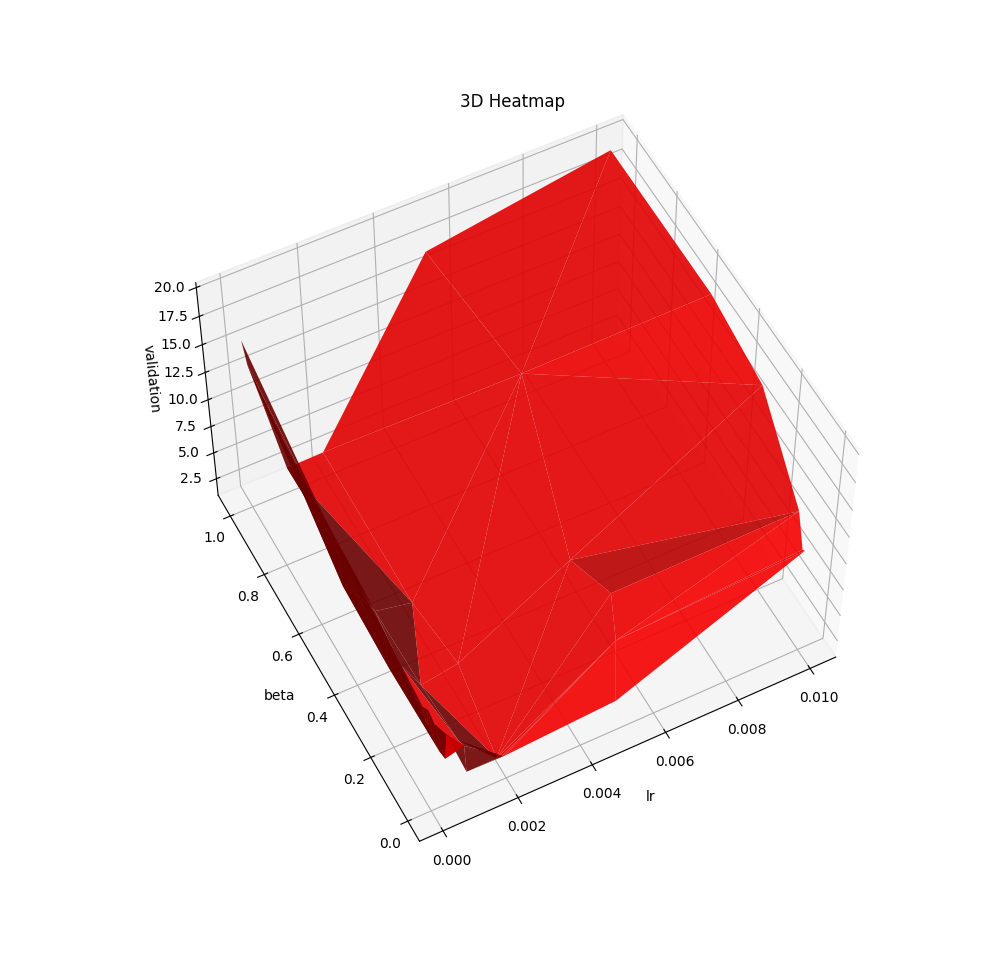
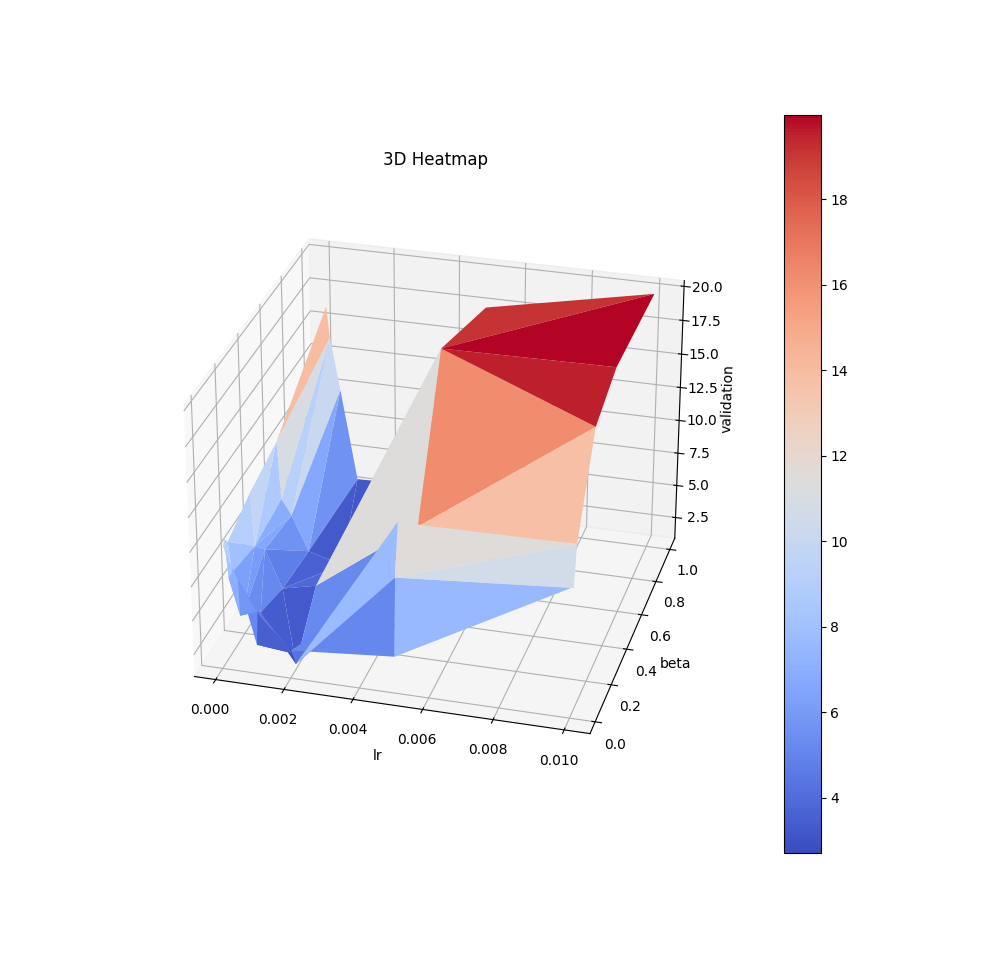
cleanup

diff --git a/moppy/sinus_test/plot_validation.py b/moppy/sinus_test/plot_validation.py
@@ -1,5 +1,4 @@
 import glob
-from typing import List
 import torch
 from matplotlib import pyplot as plt
 import numpy as np
@@ -8,7 +7,7 @@ from pylab import *
 class DataPoint():
     lr: float
     beta: float
-    validation: List[float]
+    validation: list[float]
 
     def __init__(self, lr, beta, validation_val) -> None:
         self.lr = lr
@@ -26,35 +25,34 @@ def extract_values_from_path(filepath):
         values[key] = float(value) if 'E' in value else int(value)
     return values
 
-# Example usage
-files = glob.glob("./output/seed_12/*/*/validation_loss.pth")
-points: List[DataPoint] = []
-for f in files:
-    extracted_values = extract_values_from_path(f) # Output: {'seed': 329, 'lr': 0.002, 'beta': 0.0002}
-    validation_value = torch.load(f)[-1]
+def load_values(folder: str, points: list[DataPoint]):
+    files = glob.glob(folder)
+    if not points:
+        # Create new point list and populate
+        points: list[DataPoint] = []
+        for f in files:
+            # Output: {'seed': 329, 'lr': 0.002, 'beta': 0.0002}
+            extracted_values = extract_values_from_path(f) 
+            validation_value = torch.load(f)[-1]
+            # validation_value = min(torch.load(f))
 
-    new_point = DataPoint(extracted_values['lr'], extracted_values['beta'], validation_value)
-    points.append(new_point)
+            new_point = DataPoint(extracted_values['lr'], extracted_values['beta'], validation_value)
+            points.append(new_point)
+    else:
+        # Add validation value to objects
+        for i, f in enumerate(files):
+            validation_value = torch.load(f)[-1]
+            # validation_value = min(torch.load(f))
+            points[i].validation.append(validation_value)
 
-files = glob.glob("./output/seed_220/*/*/validation_loss.pth")
-for i, f in enumerate(files):
-    validation_value = torch.load(f)[-1]
-    points[i].validation.append(validation_value)
+    return points
 
-files = glob.glob("./output/seed_329/*/*/validation_loss.pth")
-for i, f in enumerate(files):
-    validation_value = torch.load(f)[-1]
-    points[i].validation.append(validation_value)
 
-files = glob.glob("./output/seed_2304/*/*/validation_loss.pth")
-for i, f in enumerate(files):
-    validation_value = torch.load(f)[-1]
-    points[i].validation.append(validation_value)
+seeds = [12, 220, 329, 2304, 6064]
+points: list[DataPoint] = None
+for s in seeds:
+    points = load_values("./output/seed_" + str(s) + "/*/*/validation_loss.pth", points)
 
-files = glob.glob("./output/seed_6064/*/*/validation_loss.pth")
-for i, f in enumerate(files):
-    validation_value = torch.load(f)[-1]
-    points[i].validation.append(validation_value)
 
 # Extract data for plotting
 x = np.array([p.lr for p in points])
@@ -73,7 +71,7 @@ ax.set_title("3D Heatmap")
 ax.set_xlabel('lr')
 ax.set_ylabel('beta')
 ax.set_zlabel('validation')
-surf = ax.plot_trisurf(x, y, z, cmap=cm.coolwarm, linewidth=0)
+surf = ax.plot_trisurf(x, y, z, cmap=cm.coolwarm, linewidth=10)
 fig.colorbar(surf)
 
 # displaying plot 
